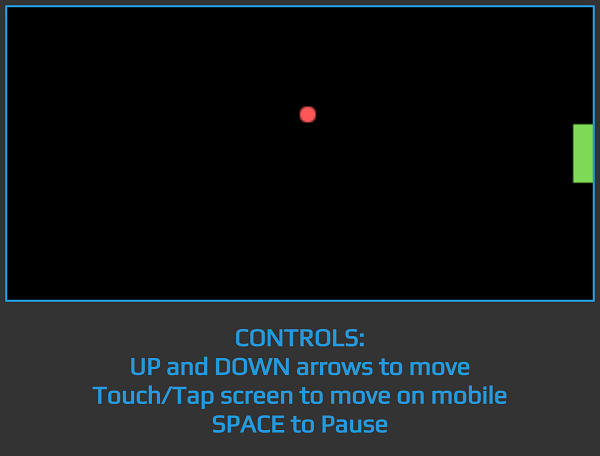
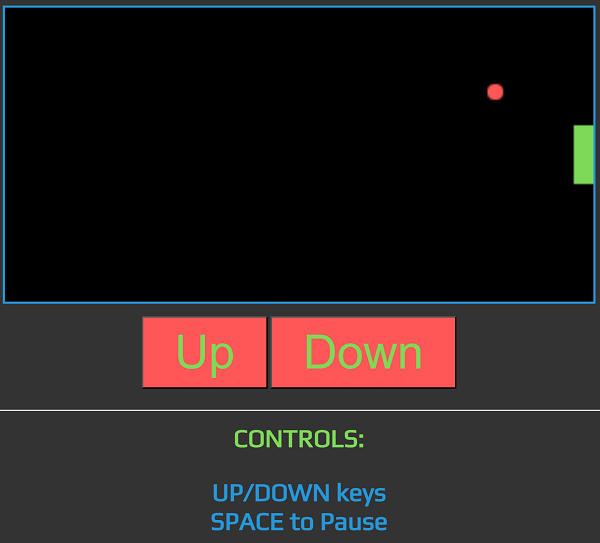
ok

Changed region(s): [[0.0, 0.0, 1.0, 0.9825], [0.48, 0.2149, 0.54, 0.2763], [0.81, 0.1535, 0.84, 0.1842]]

diff --git a/pong.html b/pong.html
@@ -24,7 +24,7 @@
           
           #pause {
             position: absolute;
-            top: 50%;
+            top: 30%;
             left: 50%;
             transform: translate(-50%, -50%);
             font-size: 2em;
@@ -44,14 +44,15 @@
           h2 {
             text-align: center;
             font-size: 2em;
+            color: #7ed957;
+          }
+
+          h3 {
+            text-align: center;
+            font-size: 2em;
             color: #2697d9;
           }
           
-          p {
-            text-align: center;
-            font-size: 2em;
-            color: orange;
-          }
           
           @media screen and (max-width: 768px) {
             #pause {
@@ -73,13 +74,28 @@
                 top: 20%;
             }
         }
+
+        .button {
+            justify-content: center;
+            align-items: center;
+            text-align: center;
+            padding-top: 1em;
+        }
+
+        .button button {
+            font-size: 60px;
+            padding: 10px 40px;
+            background-color: #ff5757;
+            color:#7ed957;
+          }
+          
         
 
     </style>
 </head>
 <body>
     <canvas id="gameCanvas"></canvas>
-    <div id="pause"><u>PAUSED</u><br>Press SPACE or Tap with 2 fingers to Play</div>
+    <div id="pause"><u>PAUSED</u><br>Press SPACE or Tap with 2 fingers to Start</div>
     <script>
         var canvas = document.getElementById("gameCanvas");
         var ctx = canvas.getContext("2d");
@@ -118,62 +134,73 @@
 
         function movePaddle(evt) {
             if (evt.type === "keydown") {
-              if (evt.keyCode == 38) {
-                paddleY -= paddleSpeed;
-              } else if (evt.keyCode == 40) {
-                paddleY += paddleSpeed;
-              }
+                if (evt.keyCode == 38) {
+                    paddleY -= paddleSpeed;
+                } else if (evt.keyCode == 40) {
+                    paddleY += paddleSpeed;
+                }
             } else if (evt.type === "touchstart" || evt.type === "touchmove") {
-              var touch = evt.touches[0];
-              var touchY = touch.pageY - canvas.offsetTop;
-              if (touchY > paddleY && touchY < paddleY + paddleHeight) {
-                paddleY = touchY - paddleHeight / 2;
-              }
-            } else if (evt.type === "deviceorientation") {
-              var tilt = evt.gamma; // gamma is the tilt around the y-axis
-              paddleY += tilt * 5; // adjust paddle position based on tilt
+                var touch = evt.touches[0];
+                var touchY = touch.pageY - canvas.offsetTop;
+                if (touchY > paddleY && touchY < paddleY + paddleHeight) {
+                    paddleY = touchY - paddleHeight / 2;
+                }
             }
-          }
-          
-          // add event listeners to detect device tilt
-          window.addEventListener("deviceorientation", movePaddle);
-          
+            // Add event listeners for the buttons
+            document.getElementById("move-up").addEventListener("click", function() {
+                movePaddleUp();
+            });
+            document.getElementById("move-down").addEventListener("click", function() {
+                movePaddleDown();
+            });
+            
+            // Functions to move the paddle up and down
+            function movePaddleUp() {
+                paddleY -= paddleSpeed;
+            }
+            function movePaddleDown() {
+                paddleY += paddleSpeed;
+            }
+  
+        }
         
 
         function gameLoop() {
             if (!gamePaused) {
                 ctx.clearRect(0, 0, canvas.width, canvas.height);
-
+                
                 drawBall();
                 drawPaddle();
-                
-
+        
                 if (ballY + ballRadius > canvas.height || ballY - ballRadius < 0) {
                     ballSpeedY = -ballSpeedY;
                 }
-
+        
                 if (ballX + ballRadius > canvas.width - paddleWidth) {
                     if (ballY > paddleY && ballY < paddleY + paddleHeight) {
                         ballSpeedX = -ballSpeedX;
                     } else {
                         gamePaused = true;
-                        
                         document.location.reload();
                     }
                 }
-
+        
                 if (ballX - ballRadius < 0 + paddleWidth) {
                     ballSpeedX = -ballSpeedX;
                 }
-
+        
                 ballX += ballSpeedX;
                 ballY += ballSpeedY;
-
+                
                 document.addEventListener("keydown", movePaddle, false);
+                canvas.addEventListener("touchstart", movePaddle, false);
+                canvas.addEventListener("touchmove", movePaddle, false);
+                
             }
-
+        
             requestAnimationFrame(gameLoop);
         }
+        
 
         function togglePause() {
             gamePaused = !gamePaused;
@@ -196,9 +223,21 @@
             if (e.touches.length === 2) {
                 togglePause();
             }});
+        
+          
+        
+        
+        
+        
+        
         gameLoop();
     </script>
+    <div class="button">
+    <button id="move-up">Up</button>
+    <button id="move-down">Down</button>
+    </div>
+    <h2><hr>CONTROLS:</h2>
+        <h3>MOVE: UP/DOWN keys or buttons<br>Pause: SPACE or Tap screen with 2 fingers</h3>
 
-    <h2><hr>CONTROLS:<br>UP/DOWN keys<br>SPACE to Pause</h2>
 </body>
 </html>

diff --git a/index.html b/index.html
@@ -135,7 +135,7 @@
             </div>
           </div>
         </div>
-        <!--<div class="col-sm-12 col-md-6 col-lg-4 mb-4">
+        <div class="col-sm-12 col-md-6 col-lg-4 mb-4">
           <div class="card">
             <div class="card-body">
               <h5 class="card-title">Handball (Javascript)</h5>
@@ -144,7 +144,7 @@
               <a href="pong.html" class="btn">Play in Browser</a>
             </div>
           </div>
-        </div>-->
+        </div>
       </div>
     </div>
 </div>
@@ -196,7 +196,7 @@
     </div>
   </div>
 </div>
-<!--<div class="col-sm-12 col-md-6 col-lg-4 mb-4">
+<div class="col-sm-12 col-md-6 col-lg-4 mb-4">
   <div class="card">
     <div class="card-body">
       <h5 class="card-title">Handball (Javascript)</h5>
@@ -205,7 +205,7 @@
       <a href="pong.html" class="btn">Play in Browser</a>
     </div>
   </div>
-</div>-->
+</div>
 
 <div class="col-sm-12 col-md-6 col-lg-4 mb-4">
     <div class="card">
